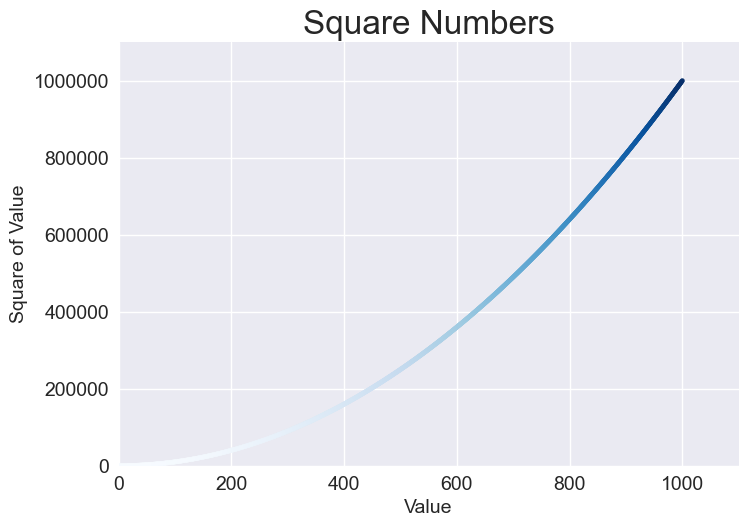
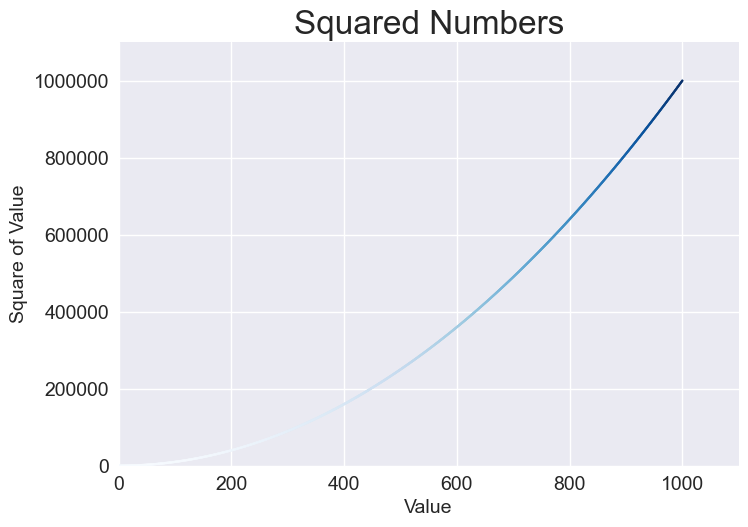
Minor tweaking, image generation/saving.

diff --git a/scatter_plot.py b/scatter_plot.py
@@ -14,14 +14,15 @@ fig, ax = plt.subplots()
 #ax.scatter( x_values, y_values, color=(0,0.8,0), s=10 ) 
 
 # Alternatively use a color map.
-ax.scatter( x_values, y_values, c=y_values, cmap=plt.cm.Blues, s=10 ) 
+ax.scatter( x_values, y_values, c=y_values, cmap=plt.cm.Blues, s=2 ) 
 
 # Label the various plot elements.
-ax.set_title( "Square Numbers", fontsize=24 )
+ax.set_title( "Squared Numbers", fontsize=24 )
 ax.set_xlabel( "Value", fontsize=14 )
 ax.set_ylabel( "Square of Value", fontsize=14 )
 
 # Set the size of the axis data values (tics).
+
 ax.tick_params( labelsize=14 )
 
 # Set the range of axis values.

diff --git a/README.md b/README.md
@@ -40,7 +40,9 @@ Subsequently the installations can be verified with the command:
 
 ## Usage
 From VSCode, by issuing the commands (note the suffix ".py' is required)  
-- 'python squares_plot.py'    
+- 'python squares_plot.py'  
+- 'python scatter_plot.py'  
+- 'random_walk_plot.py'  
 
 
 ## References
@@ -48,13 +50,13 @@ From VSCode, by issuing the commands (note the suffix ".py' is required)
 
 
 ## File List
-**random_walk_plot.py** - the main game file, invoked to play the game.  
-**random_walk.py** - a class module controlling the firing of bullets.   
-**scatter_plot.py** - a class module to implement a 'play' button for the game.   
-**squares_plot.py**  - a class to play a crash sound when a defender's ship is destroyed.  
+**random_walk_plot.py** - the script to product the 'random-walk' images.  
+**random_walk.py** - a class module that creates the data points for random-walk_plot.   
+**scatter_plot.py** - a script that generates a scatter plot of squared numbers.   
+**squares_plot.py**  - a script that generates a line plot of squared numbers.  
 
 
-**/images** - a subdirectory with game images  
+**/images** - a subdirectory with script images  
 
 
 ## Technologies and Imports
@@ -63,8 +65,9 @@ The following modules are necessary imports (imported in the .py files):
  
 
 ## Images
-The image below shows a sample game screen:  
-![Sample Display](https://github.com/CaptainRich/Aliens/blob/main/Images/game-screen.png)
+The images below show the resulting visualizations generated by the scripts:  
+  
+![Sample Display](https://github.com/CaptainRich/Visualizations/blob/main/Images/scatter_plot.png)
 
 The images below depict several views of the (class) mind-map for the game program:  
 ![Mind Map0](https://github.com/CaptainRich/Aliens/blob/main/Images/program-mindmap-0.png)  
